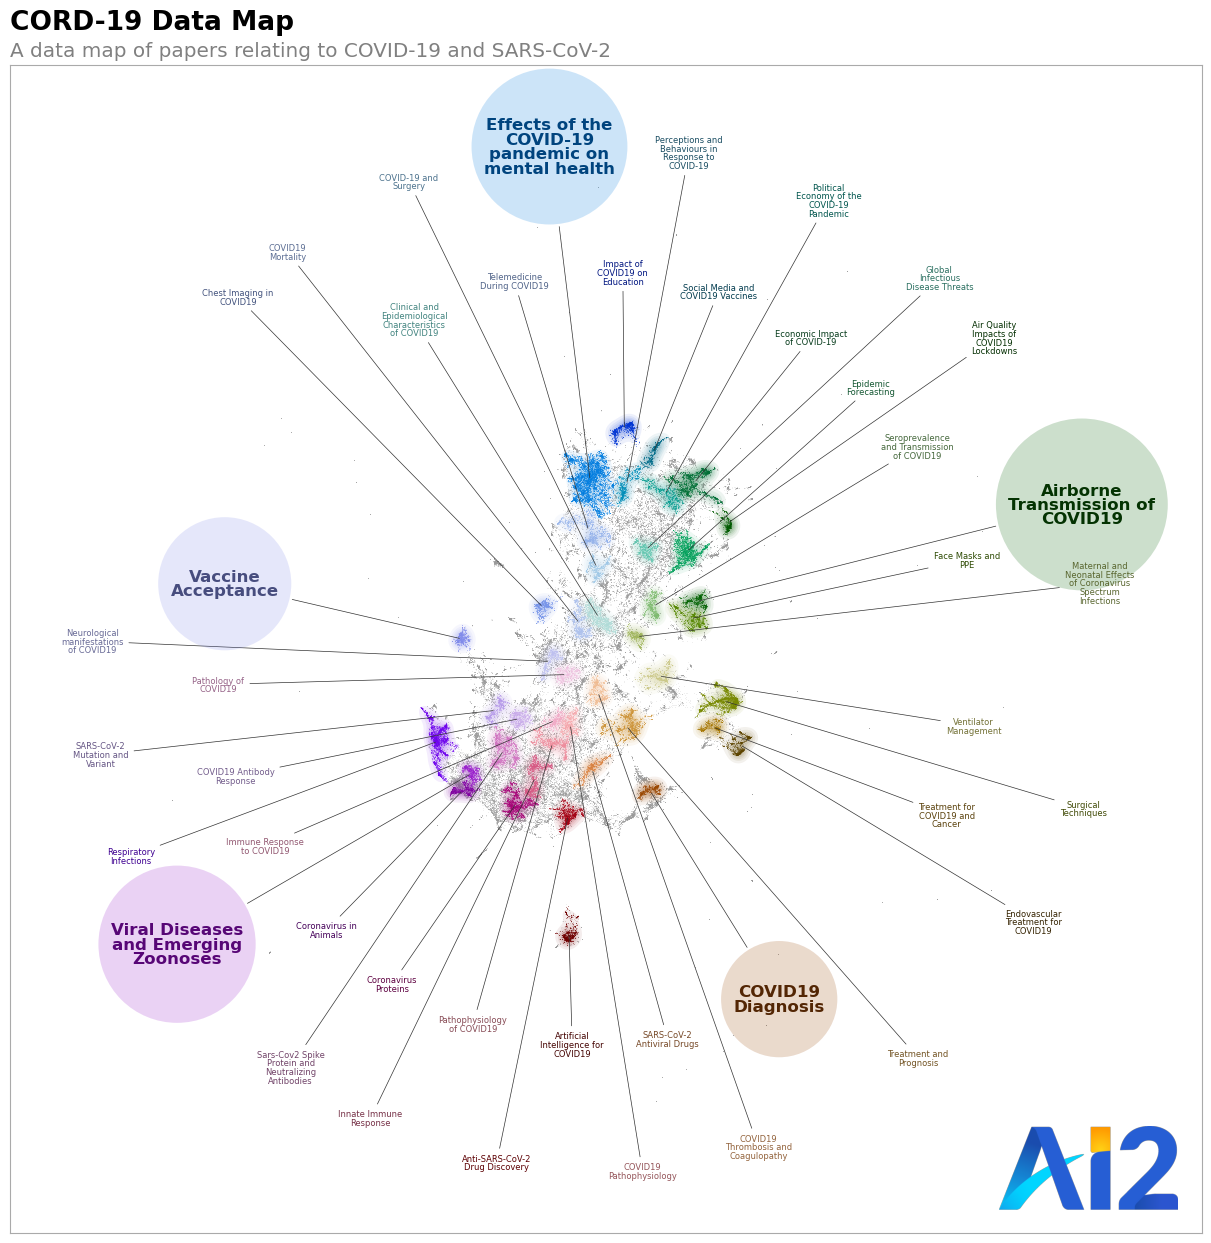
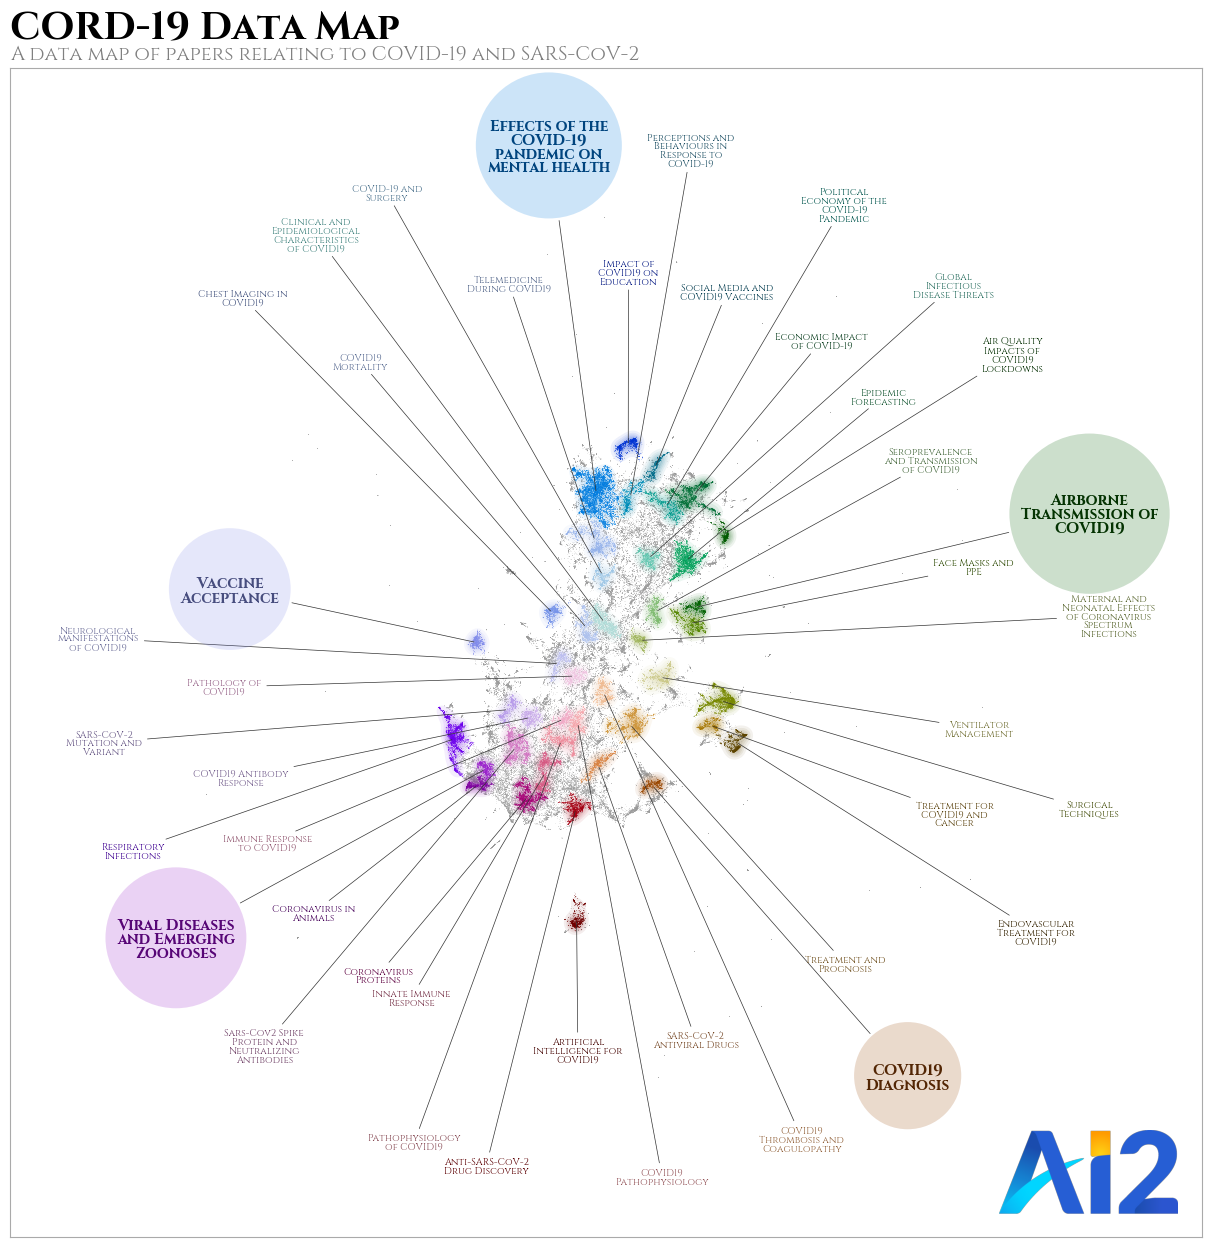
Update examples

diff --git a/examples/plot_cord19.py b/examples/plot_cord19.py
@@ -8,13 +8,29 @@ import datamapplot
 import numpy as np
 import requests
 import PIL
+import matplotlib.font_manager
 import matplotlib.pyplot as plt
+from tempfile import NamedTemporaryFile
+import re
 import pandas as pd
 
 plt.rcParams['savefig.bbox'] = 'tight'
 
 cord19_data_map = np.load("CORD19-subset-data-map.npy")
 cord19_labels = np.load("CORD19-subset-cluster_labels.npy", allow_pickle=True)
+
+def get_google_font(fontname):
+    api_fontname = fontname.replace(' ', '+')
+    api_response = resp = requests.get(
+        f"https://fonts.googleapis.com/css?family={api_fontname}:black,bold,regular,light"
+    )
+    font_urls = re.findall(r'(https?://[^\)]+)', str(api_response.content))
+    for font_url in font_urls:
+        font_data = requests.get(font_url)
+        f = NamedTemporaryFile(delete=False, suffix='.ttf')
+        f.write(font_data.content)
+        f.close()
+        matplotlib.font_manager.fontManager.addfont(f.name)
 
 # Prune labels down slightly
 label_counts = pd.Series(cord19_labels).value_counts()
@@ -28,7 +44,9 @@ allenai_logo_response = requests.get(
 )
 allenai_logo = np.asarray(PIL.Image.open(allenai_logo_response.raw))
 
-datamapplot.create_plot(
+get_google_font("Cinzel")
+
+fig, ax = datamapplot.create_plot(
     cord19_data_map,
     cord19_labels,
     palette_hue_shift=-90,
@@ -41,10 +59,14 @@ datamapplot.create_plot(
         "Viral Diseases and Emerging Zoonoses",
         "Vaccine Acceptance",
     ],
-    label_font_size=6,
+    fontfamily="Cinzel",
+    label_font_size=7,
+    label_linespacing=1.25,
     label_margin_factor=1.5,
     label_direction_bias=1.0,
-    highlight_label_keywords={"fontsize": 12, "fontweight": "bold", "bbox": {"boxstyle": "circle", "pad": 0.75}},
+    highlight_label_keywords={"fontsize": 11, "fontweight": "bold", "bbox": {"boxstyle": "circle", "pad": 0.75}},
+    title_keywords={"fontsize": 28},
     logo=allenai_logo,
 )
+fig.savefig("plot_cord19.png", bbox_inches="tight")
 plt.show()

diff --git a/examples/plot_simple_arxiv.py b/examples/plot_simple_arxiv.py
@@ -47,8 +47,8 @@ fig, ax = datamapplot.create_plot(
     title="ArXiv ML Landscape",
     sub_title="A data map of papers from the Machine Learning section of ArXiv",
     logo=arxiv_logo,
-    fontfamily="Great Vibes",
-    label_font_size=13,
+    fontfamily="Montserrat Thin",
+    label_font_size=9.5,
     label_margin_factor=1.0,
     arrowprops={
         "arrowstyle": "wedge", "connectionstyle": "arc3,rad=0.3", "linewidth": 0.25, "ec": "#4f3e2d"
@@ -58,4 +58,5 @@ fig, ax = datamapplot.create_plot(
     glow_keywords={"n_levels":16, "kernel":"exponential", "kernel_bandwidth":0.2},
     cmap=colorcet.cm.CET_L9,
 )
+fig.savefig("plot_simple_arxiv.png", bbox_inches="tight")
 plt.show()

diff --git a/examples/plot_wikipedia.py b/examples/plot_wikipedia.py
@@ -47,11 +47,12 @@ fig, ax = datamapplot.create_plot(
     logo=cohere_logo,
     logo_width=0.28,
     use_medoids=True,
-    arrowprops={"arrowstyle": "wedge,tail_width=0.75,shrink_factor=0.2", "linewidth": 0.1, "fc": "#33333377", "ec": "#333333aa"},
+    arrowprops={"arrowstyle": "wedge,tail_width=0.85,shrink_factor=0.15", "linewidth": 0.4, "fc": "#33333377", "ec": "#333333aa"},
     fontfamily="Marcellus SC",
     label_linespacing=1.25,
     label_direction_bias=1.25,
     title_keywords={"fontsize":62.5}
 )
 ax.set(facecolor="#eae6de")
+fig.savefig("plot_wikipedia.png", bbox_inches="tight")
 plt.show()

diff --git a/examples/plot_arxiv_ml.py b/examples/plot_arxiv_ml.py
@@ -52,4 +52,5 @@ fig, ax = datamapplot.create_plot(
     label_margin_factor=1.0,
     darkmode=True
 )
+fig.savefig("plot_arxiv_ml.png", bbox_inches="tight")
 plt.show()
